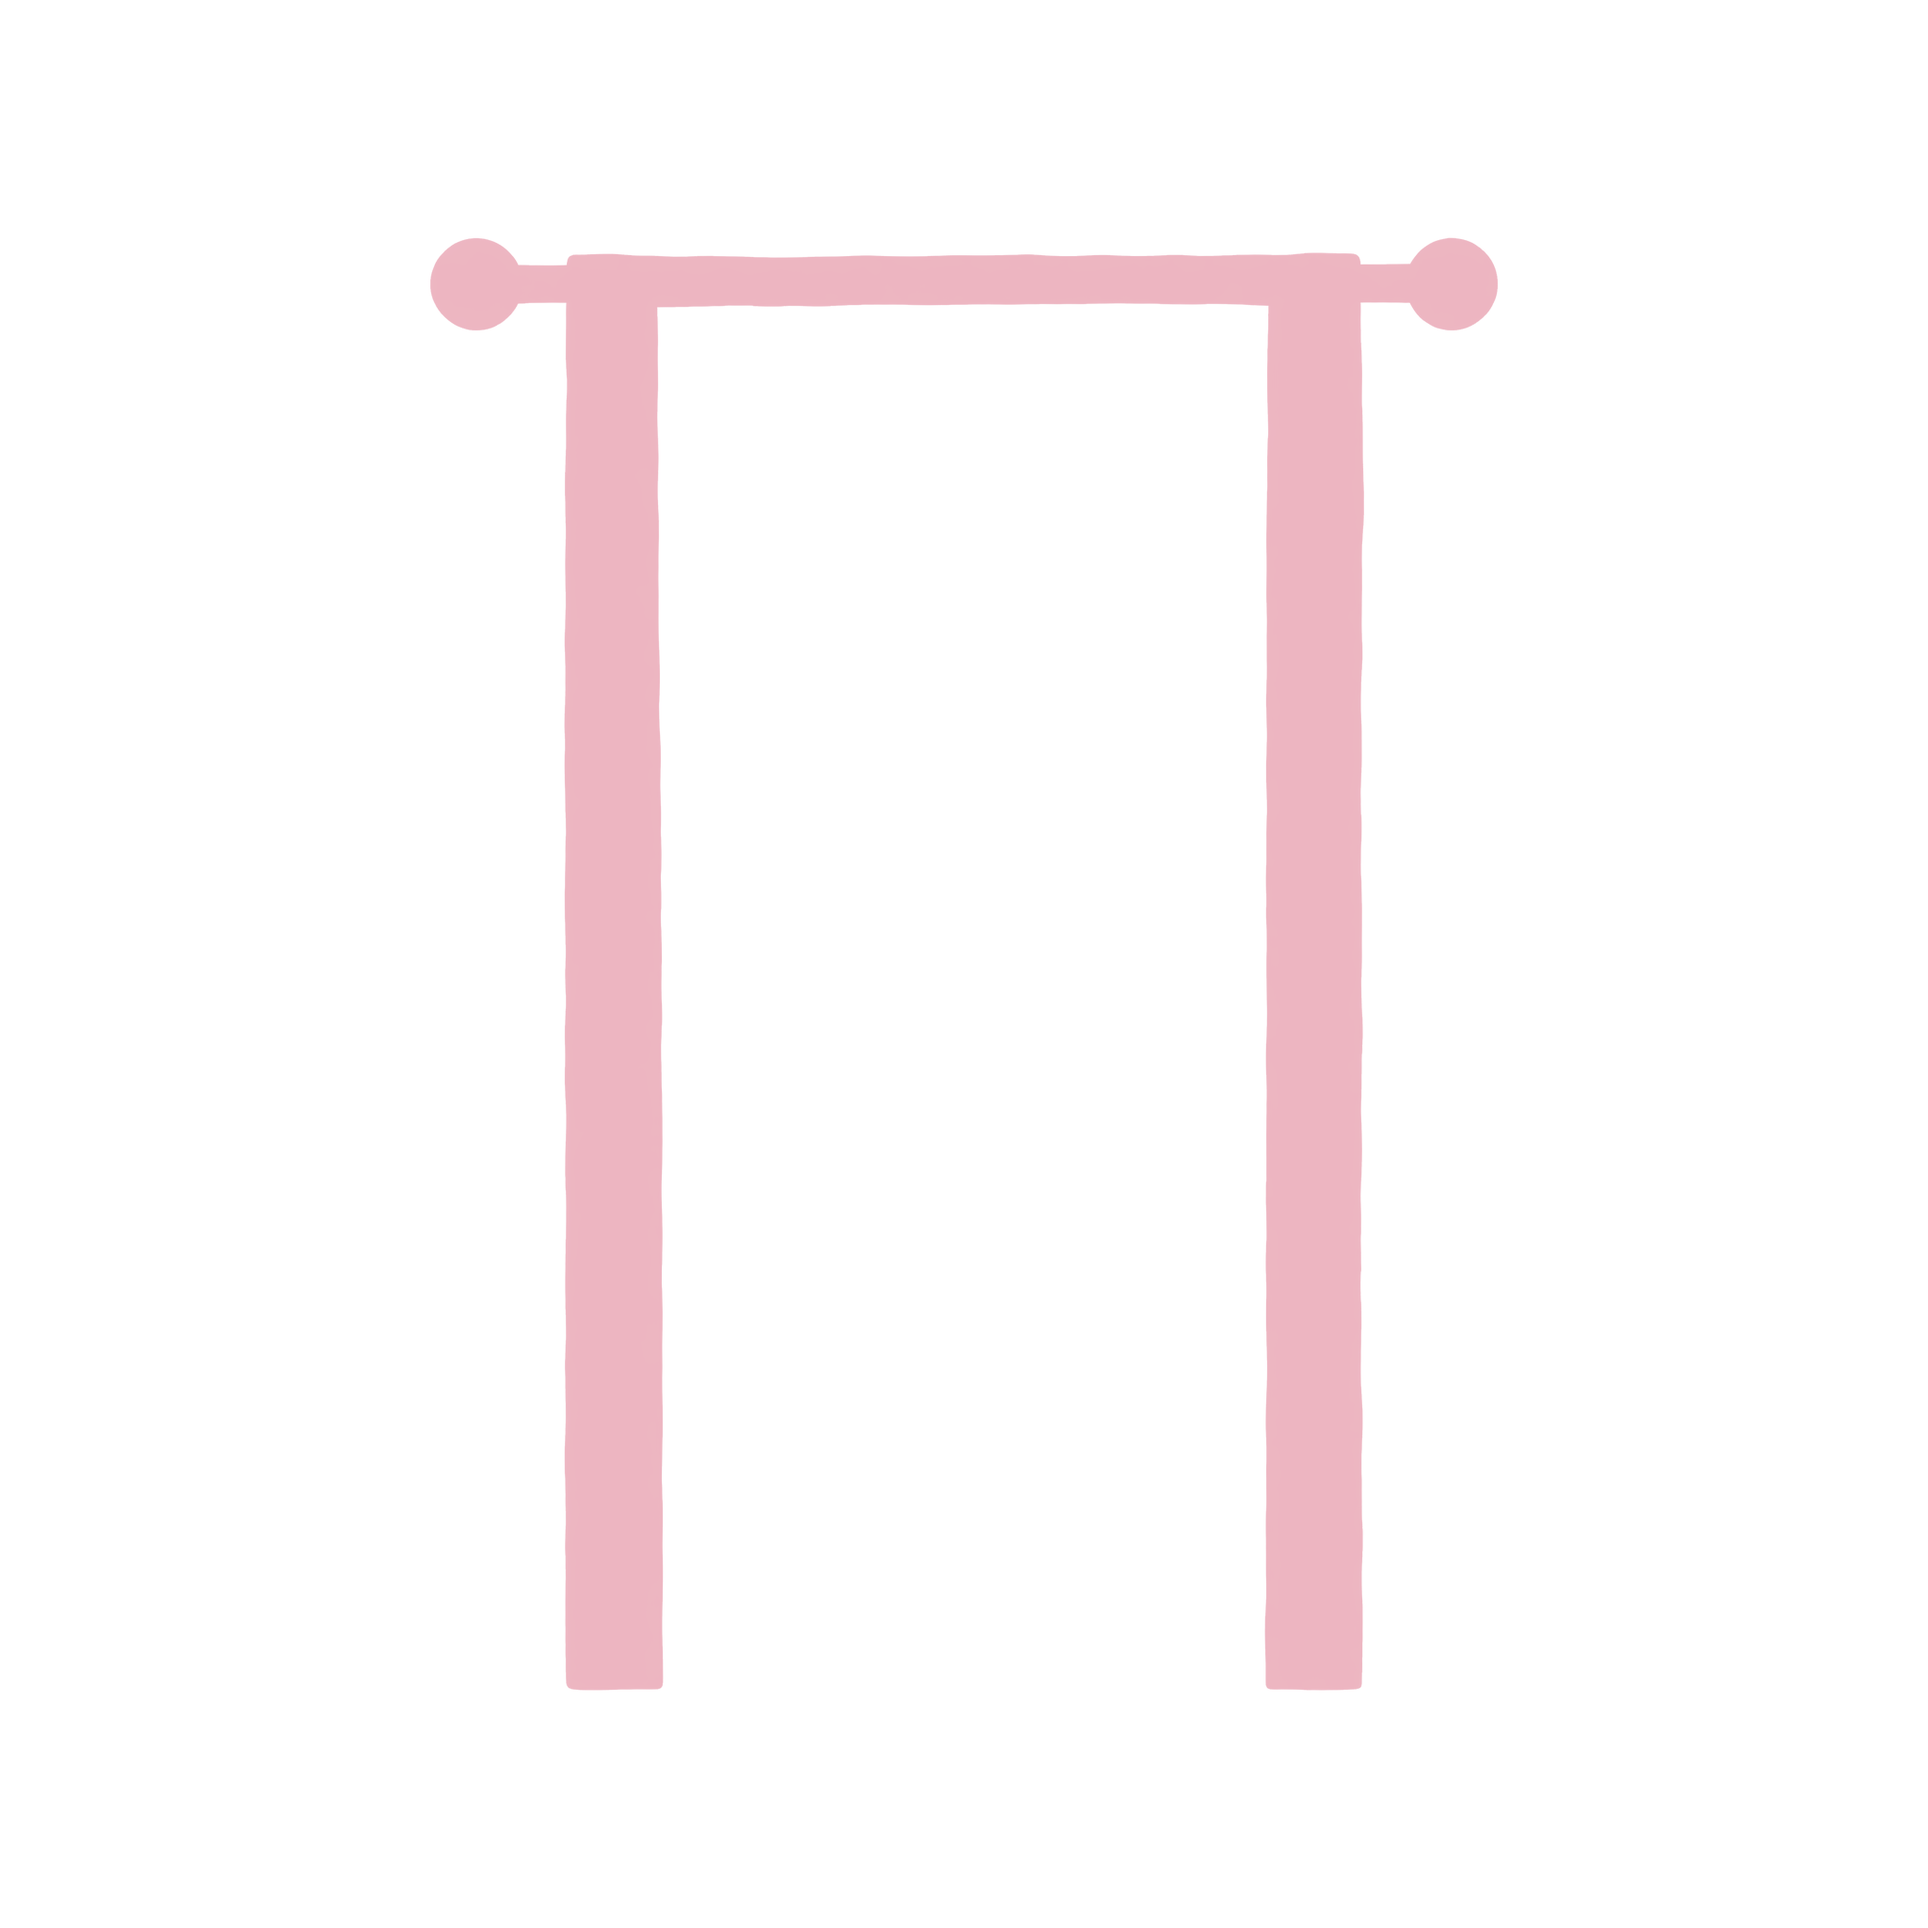
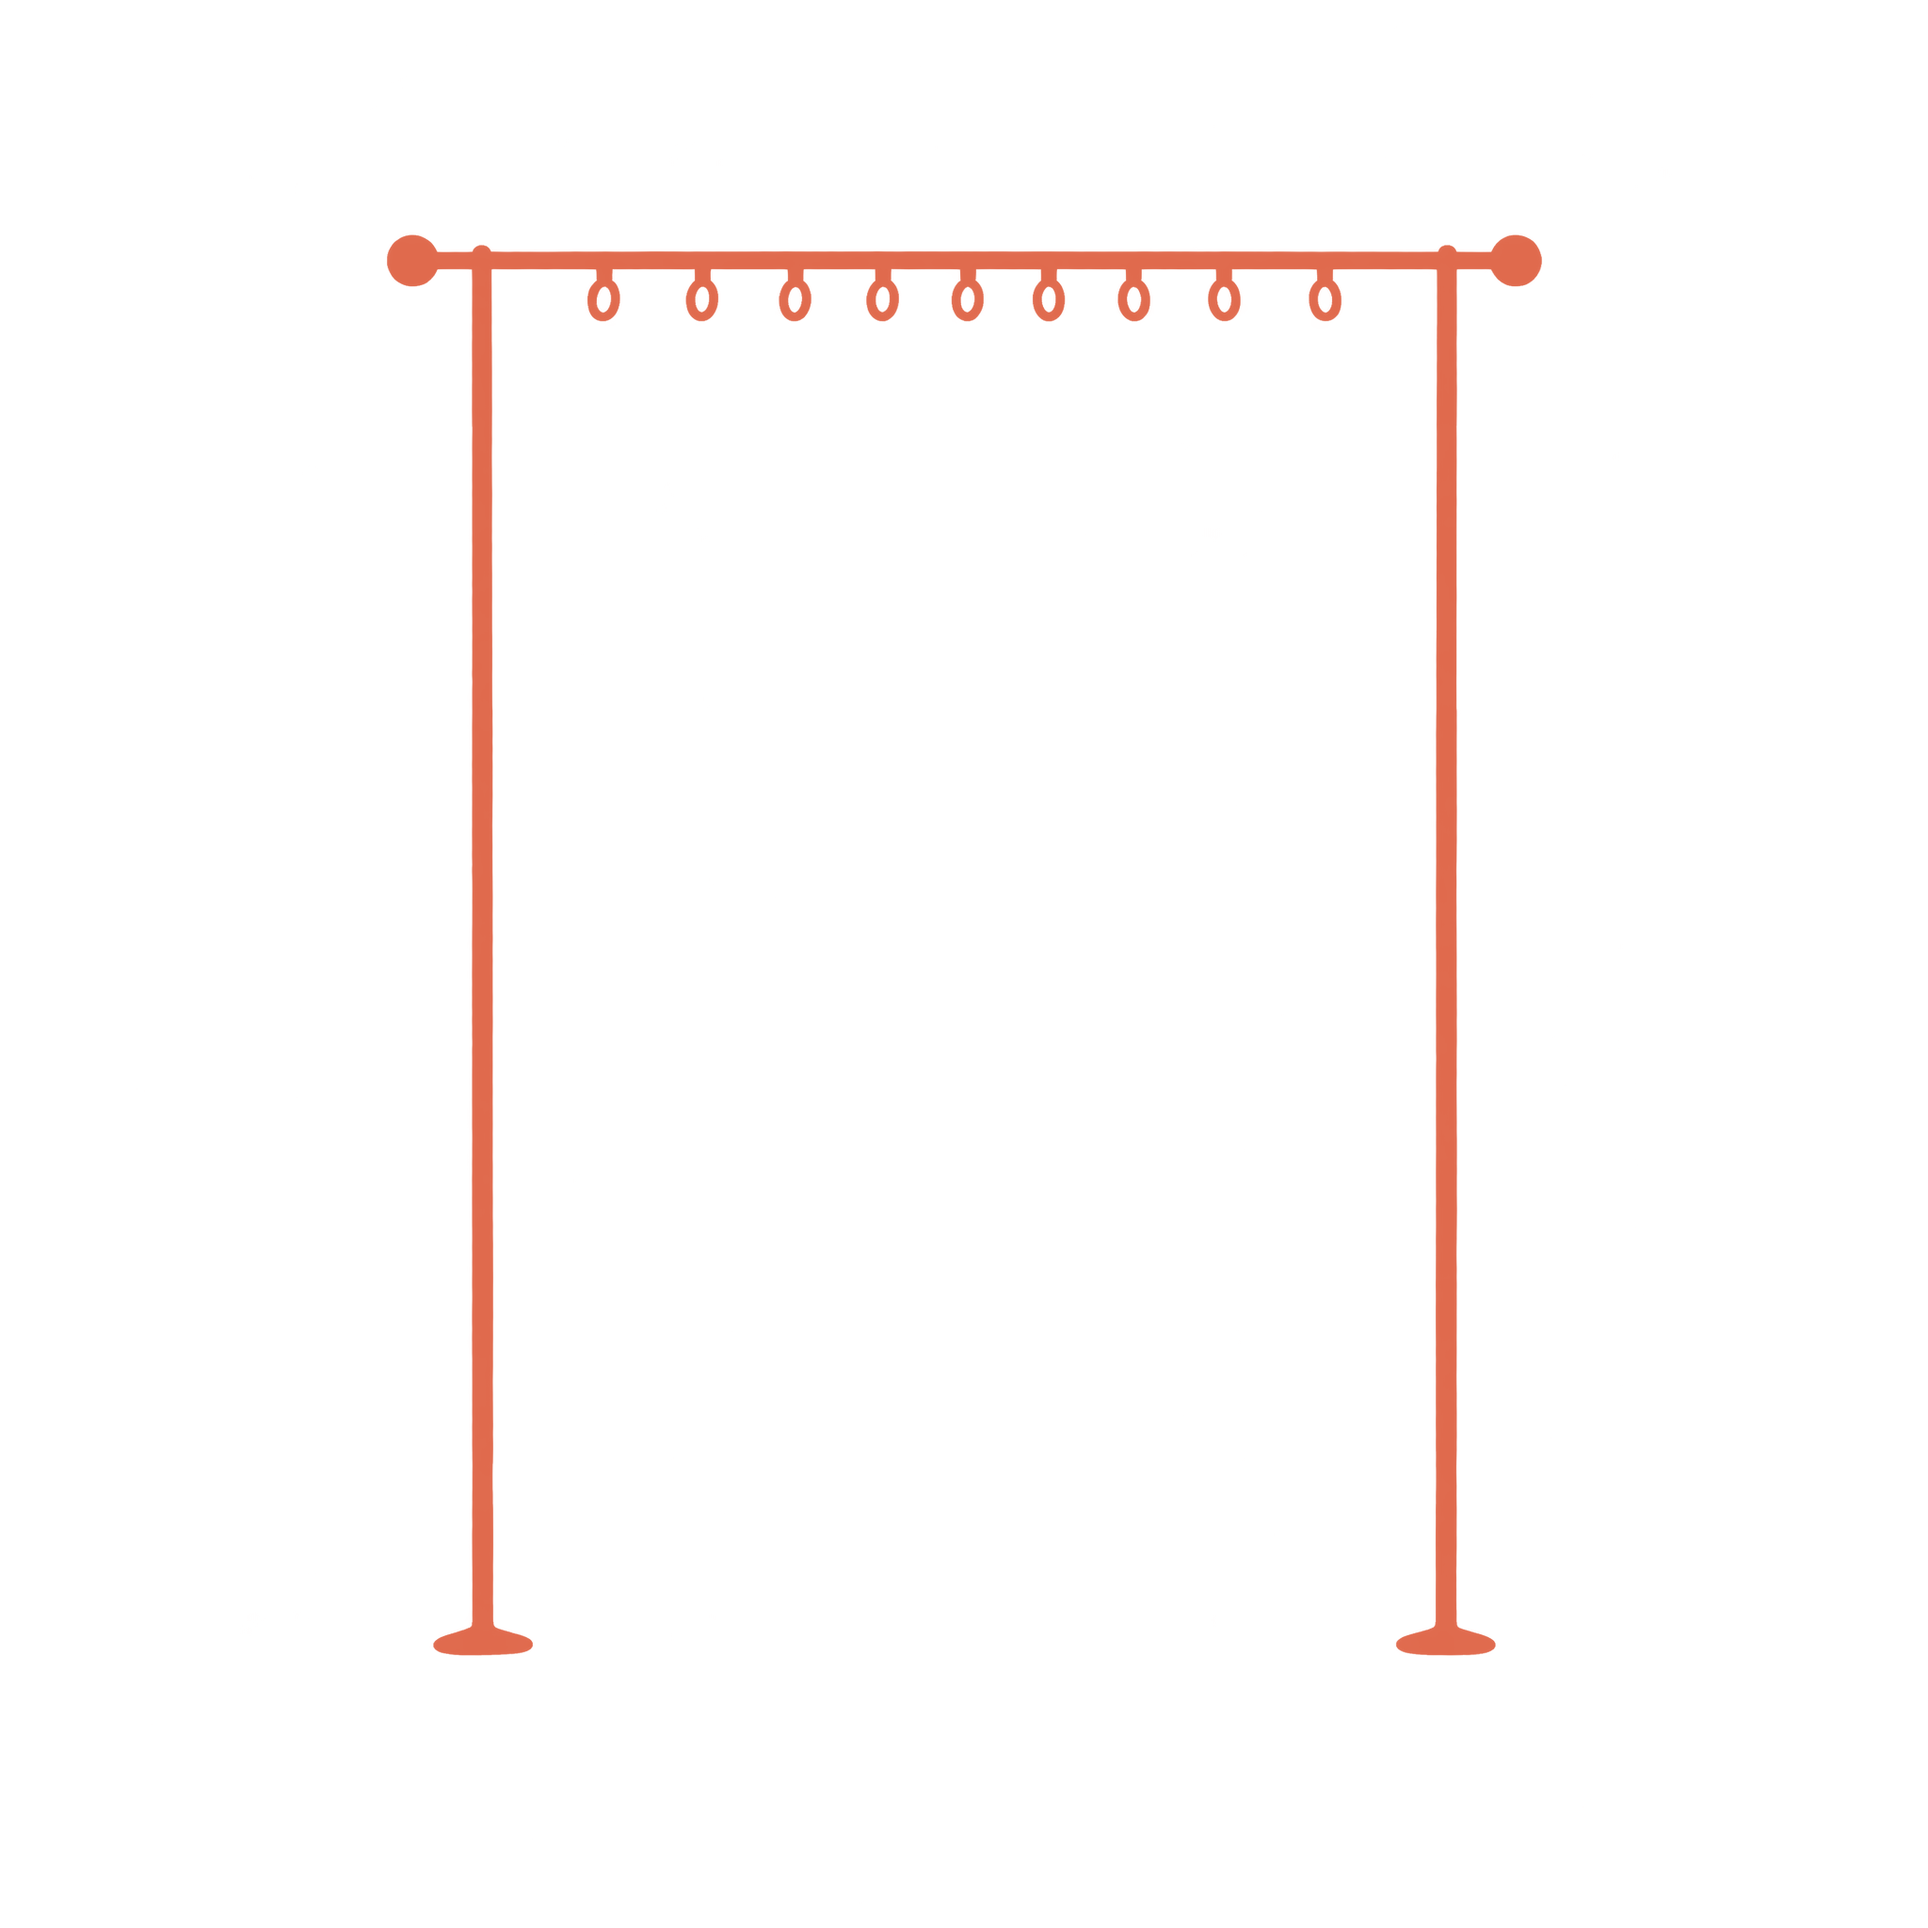
New curtain: a slim coral stand with rings, one strand from each ring

Changed region(s): [[0.1875, 0.125, 0.8125, 0.875]]

diff --git a/curtain/curtain.js b/curtain/curtain.js
@@ -1,6 +1,6 @@
 // Bead curtain made of characters, simulated with XPBD (extended position-based dynamics).
 //
-// Strands of 帘 hang from the rod across the doorway. Each strand is a chain of slightly
+// Strands of 帘 hang from the rings along the rod. Each strand is a chain of slightly
 // elastic links pinned at the rod, like the lamp's cord. The pointer is a soft round body
 // moving through them: strands part around it, brush their neighbours, then sway back and
 // settle. Characters can also be grabbed and dragged. All units are design-frame pixels (2048²).
@@ -17,16 +17,18 @@ export const IMAGE = new URL("assets/curtain.png", import.meta.url).href;
 
 // --- Door frame, measured from the image's alpha ------------------------------------------
 
-const ROD_Y = 316; // rod spans y 271–326 in the opening; strands hang from just above its lower edge
-const OPEN_X0 = 704; // inner edge of the left post
-const OPEN_X1 = 1345; // inner edge of the right post
+const ROD_Y = 336; // rod spans y 267–285; the rings hang under it to y 340, strands from their bottoms
+const OPEN_X0 = 522; // inner edge of the left post
+const OPEN_X1 = 1525; // inner edge of the right post
 
-const STRANDS = 9; // ~71px apart, a little more than one character
-const LENGTH = 18; // characters per strand; ends around knee height (posts end at 1795)
+// One strand from each ring, at the ring's centre (~96px apart, half again a character).
+const RINGS = [640, 745, 844, 937, 1027, 1114, 1204, 1300, 1407];
+const STRANDS = RINGS.length;
+const LENGTH = 18; // characters per strand; ends around knee height (feet at 1757)
 
-// Where the posts meet the floor, and the opaque box of the art (for placing it in a room).
-export const FOOT = { x: 1024, y: 1795 };
-export const BOUNDS = { x0: 457, y0: 253, x1: 1591, y1: 1795 };
+// Where the feet meet the floor, and the opaque box of the art.
+export const FOOT = { x: 1024, y: 1757 };
+export const BOUNDS = { x0: 411, y0: 250, x1: 1637, y1: 1757 };
 
 // --- Tuning ------------------------------------------------------------------------------
 
@@ -86,7 +88,7 @@ export function mount(stage) {
   const img = document.createElement("img");
   img.className = "frame";
   img.src = IMAGE;
-  img.alt = "Pink door frame with a curtain rod";
+  img.alt = "Coral curtain stand with a rod and rings";
   img.draggable = false;
   stage.append(strandsEl, img);
 
@@ -105,15 +107,12 @@ export function mount(stage) {
 
   // --- Simulation ------------------------------------------------------------------------
 
-  // strands[s][0] is pinned to the rod; strands[s][i + 1] is the bottom of character i.
-  const pitch = (OPEN_X1 - OPEN_X0) / STRANDS;
-  const strands = Array.from({ length: STRANDS }, (_, s) => {
-    const x = OPEN_X0 + pitch * (s + 0.5);
-    return Array.from({ length: LENGTH + 1 }, (_, i) => ({
+  // strands[s][0] is pinned under its ring; strands[s][i + 1] is the bottom of character i.
+  const strands = RINGS.map((x) =>
+    Array.from({ length: LENGTH + 1 }, (_, i) => ({
       x, y: ROD_Y + i * SEG, px: 0, py: 0, vx: 0, vy: 0,
       w: i === 0 ? 0 : 1, // inverse mass; the pin doesn't move
-    }));
-  });
+    })));
 
   const grab = { node: null, ox: 0, oy: 0, tx: 0, ty: 0 };
 
